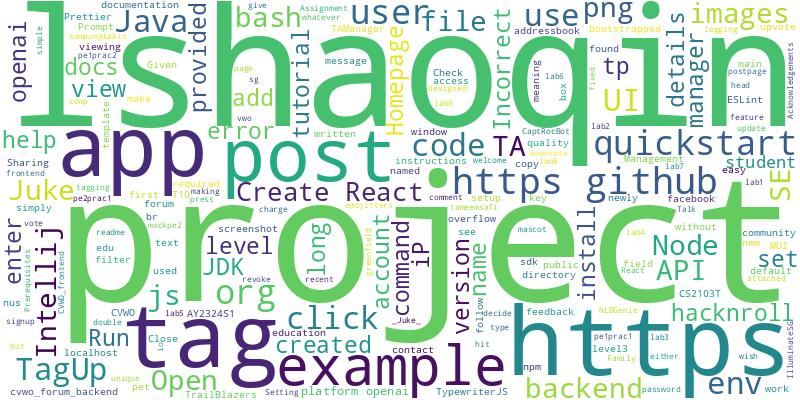
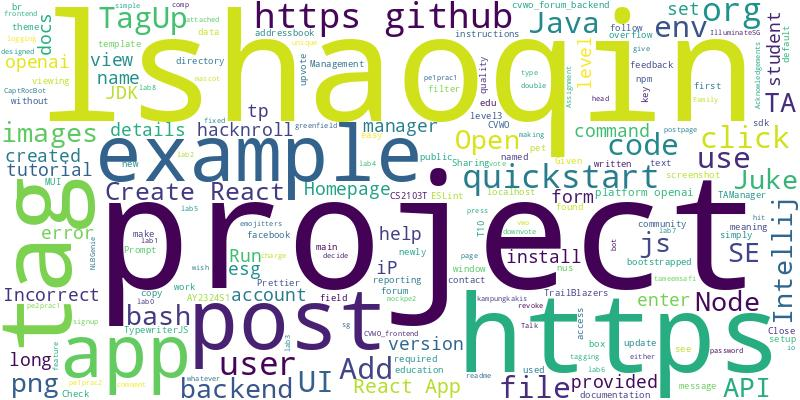
docs: auto-update README.md

diff --git a/README.md b/README.md
@@ -5,58 +5,58 @@ I'm a Computer Science student at the National University of Singapore. I like t
 ## 🔨 I've been working on:
 
 <details>
-<summary><strong>🌊rag</strong></summary>
+<summary><strong>🧽rag</strong></summary>
 Link to repo: https://github.com/lshaoqin/rag
 <br/>
-This repository contains an implementation and testing of Retrieval Augmented Generation (RAG) for natural language processing tasks.
+This repository contains an implementation and testing of Retrieval Augmented Generation (RAG), a method that combines information retrieval and text generation for natural language processing tasks.
 
 ---
 
-The 'rag' repository underwent significant changes including updating API methods, adding Milvus integration, GPU support, and bug fixes for angle queries and embeddings. The project setup and testing were also improved.
+The rag repository underwent multiple updates and bug fixes. Changes include API enhancements, Milvus integration, GPU support, and embedding improvements to prevent memory issues. Tests were created for Milvus and text embeddings.
 </details>
 
 <details>
-<summary><strong>⚙req-throttle</strong></summary>
-Link to repo: https://github.com/lshaoqin/req-throttle
-<br/>
-This repository contains a basic request throttler implemented in TypeScript to control the rate of requests being made to a server, thereby preventing overload and optimizing performance.
-
----
-
-The repository "req-throttle" in TypeScript underwent changes to fix bugs, handle concurrency, and add tests. It implemented a basic design with locks for concurrency.
-</details>
-
-<details>
-<summary><strong>💻lshaoqin</strong></summary>
-Link to repo: https://github.com/lshaoqin/lshaoqin
-<br/>
-This repository contains a comprehensive guide and resources for beginners to learn web development using HTML, CSS, and JavaScript. It covers basic concepts, best practices, and hands-on exercises to enhance coding skills.
-
----
-
-Multiple commits were made to the repository, including auto-updating README.md, fixing markdown formatting, updating the readme template, and removing self-referencing description.
-</details>
-
-<details>
-<summary><strong>🔍questions-search</strong></summary>
-Link to repo: https://github.com/lshaoqin/questions-search
-<br/>
-This repository contains code for performing insertions and searches on a vector database to determine the most relevant Wikipedia article.
-
----
-
-Commits included deletions, merging branches, fixing errors in predictions, updating README, ignoring submission file, and generating predictions in the "questions-search" repository.
-</details>
-
-<details>
-<summary><strong>⭐jeeves</strong></summary>
+<summary><strong>💼jeeves</strong></summary>
 Link to repo: https://github.com/lshaoqin/jeeves
 <br/>
-This repository contains a CLI tool for loading, analyzing, and visualizing data by utilizing easy-to-use text queries.
+This repository contains a command-line interface (CLI) for loading, analyzing, and visualizing data using straightforward text queries.
 
 ---
 
-The Git commits in the "jeeves" repository include removing unused imports, updating dependencies, and creating database methods for crewAI, among other tasks.
+The commits involve removing unused imports, updating dependencies, setting up virtual environment, and creating database methods for the CLI tool.
+</details>
+
+<details>
+<summary><strong>💻ImageBind</strong></summary>
+Link to repo: https://github.com/lshaoqin/ImageBind
+<br/>
+This repository contains ImageBind, a tool for embedding images into a shared space for visual comparison and analysis.
+
+---
+
+Commits include uploading test results, updating GPU test timing, fixing API errors, setting up Milvus, and adding phone test data. Additionally, build and package files were added to the gitignore.
+</details>
+
+<details>
+<summary><strong>📎CLIP</strong></summary>
+Link to repo: https://github.com/lshaoqin/CLIP
+<br/>
+This repository contains CLIP (Contrastive Language-Image Pretraining) model for predicting the most relevant text snippet corresponding to an image.
+
+---
+
+Commits in the CLIP repository include fixing the API for demo readiness, updating dependencies, and integrating the TOM API.
+</details>
+
+<details>
+<summary><strong>🔍lshaoqin</strong></summary>
+Link to repo: https://github.com/lshaoqin/lshaoqin
+<br/>
+This repository contains a comprehensive guide and resources for beginners to learn web development, including HTML, CSS, and JavaScript, with step-by-step tutorials and exercises.
+
+---
+
+Multiple commits have been made to auto-update the README.md file within the repository named lshaoqin.
 </details>
 
 <br>
